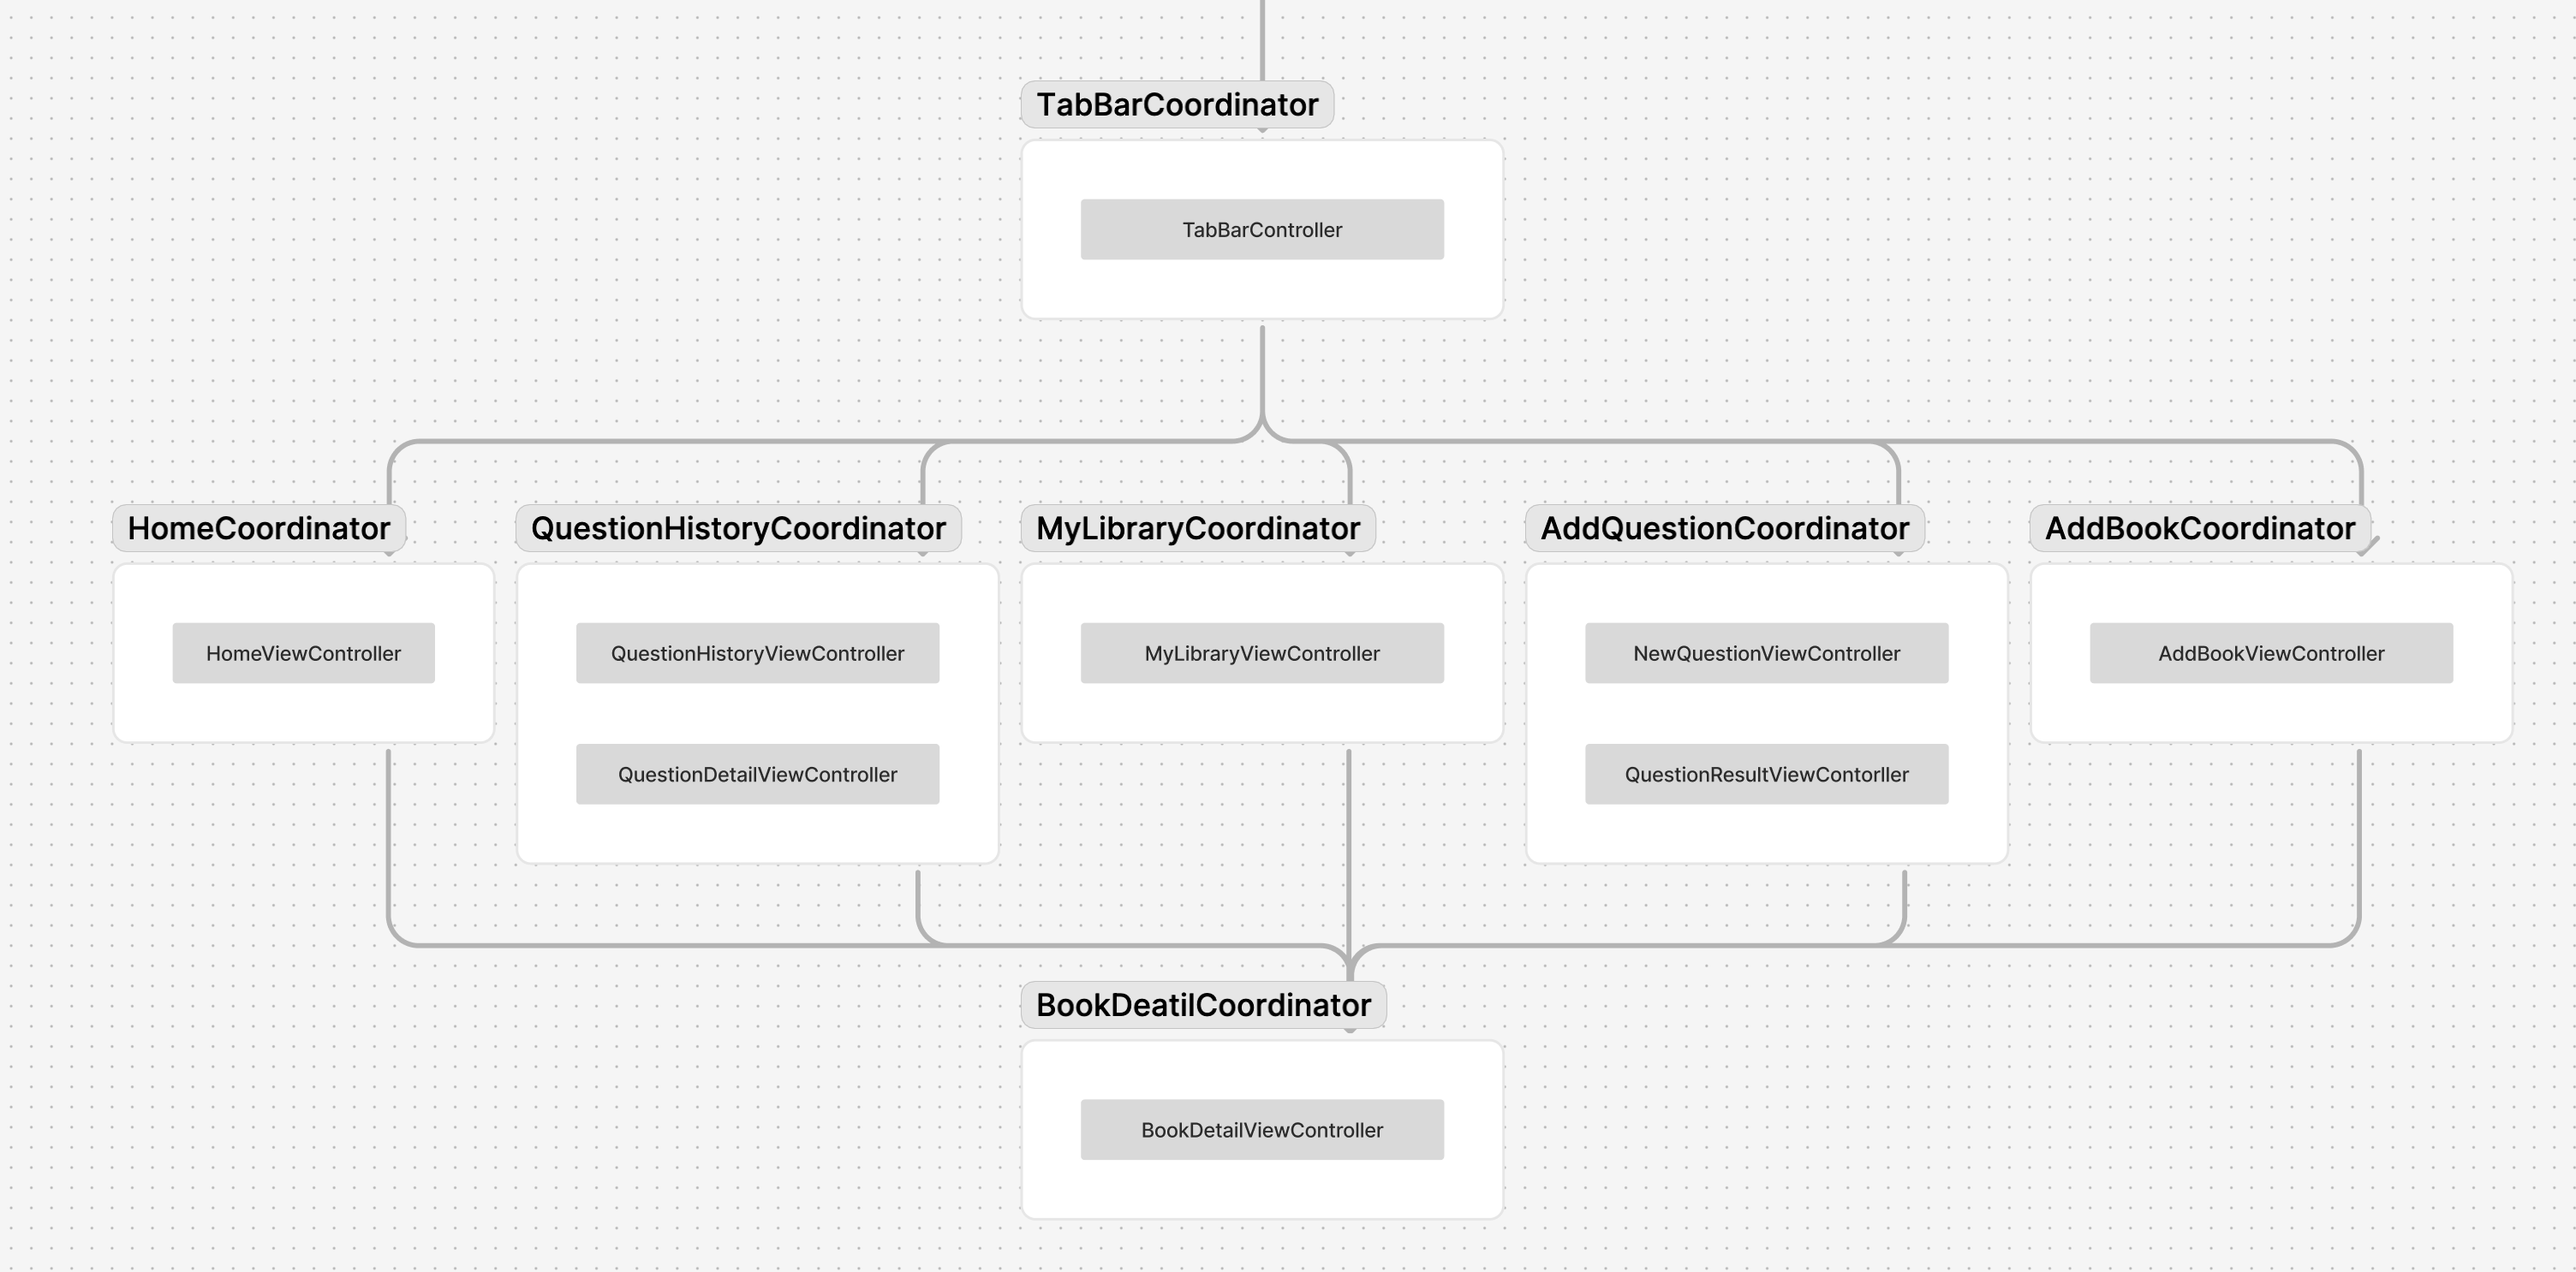
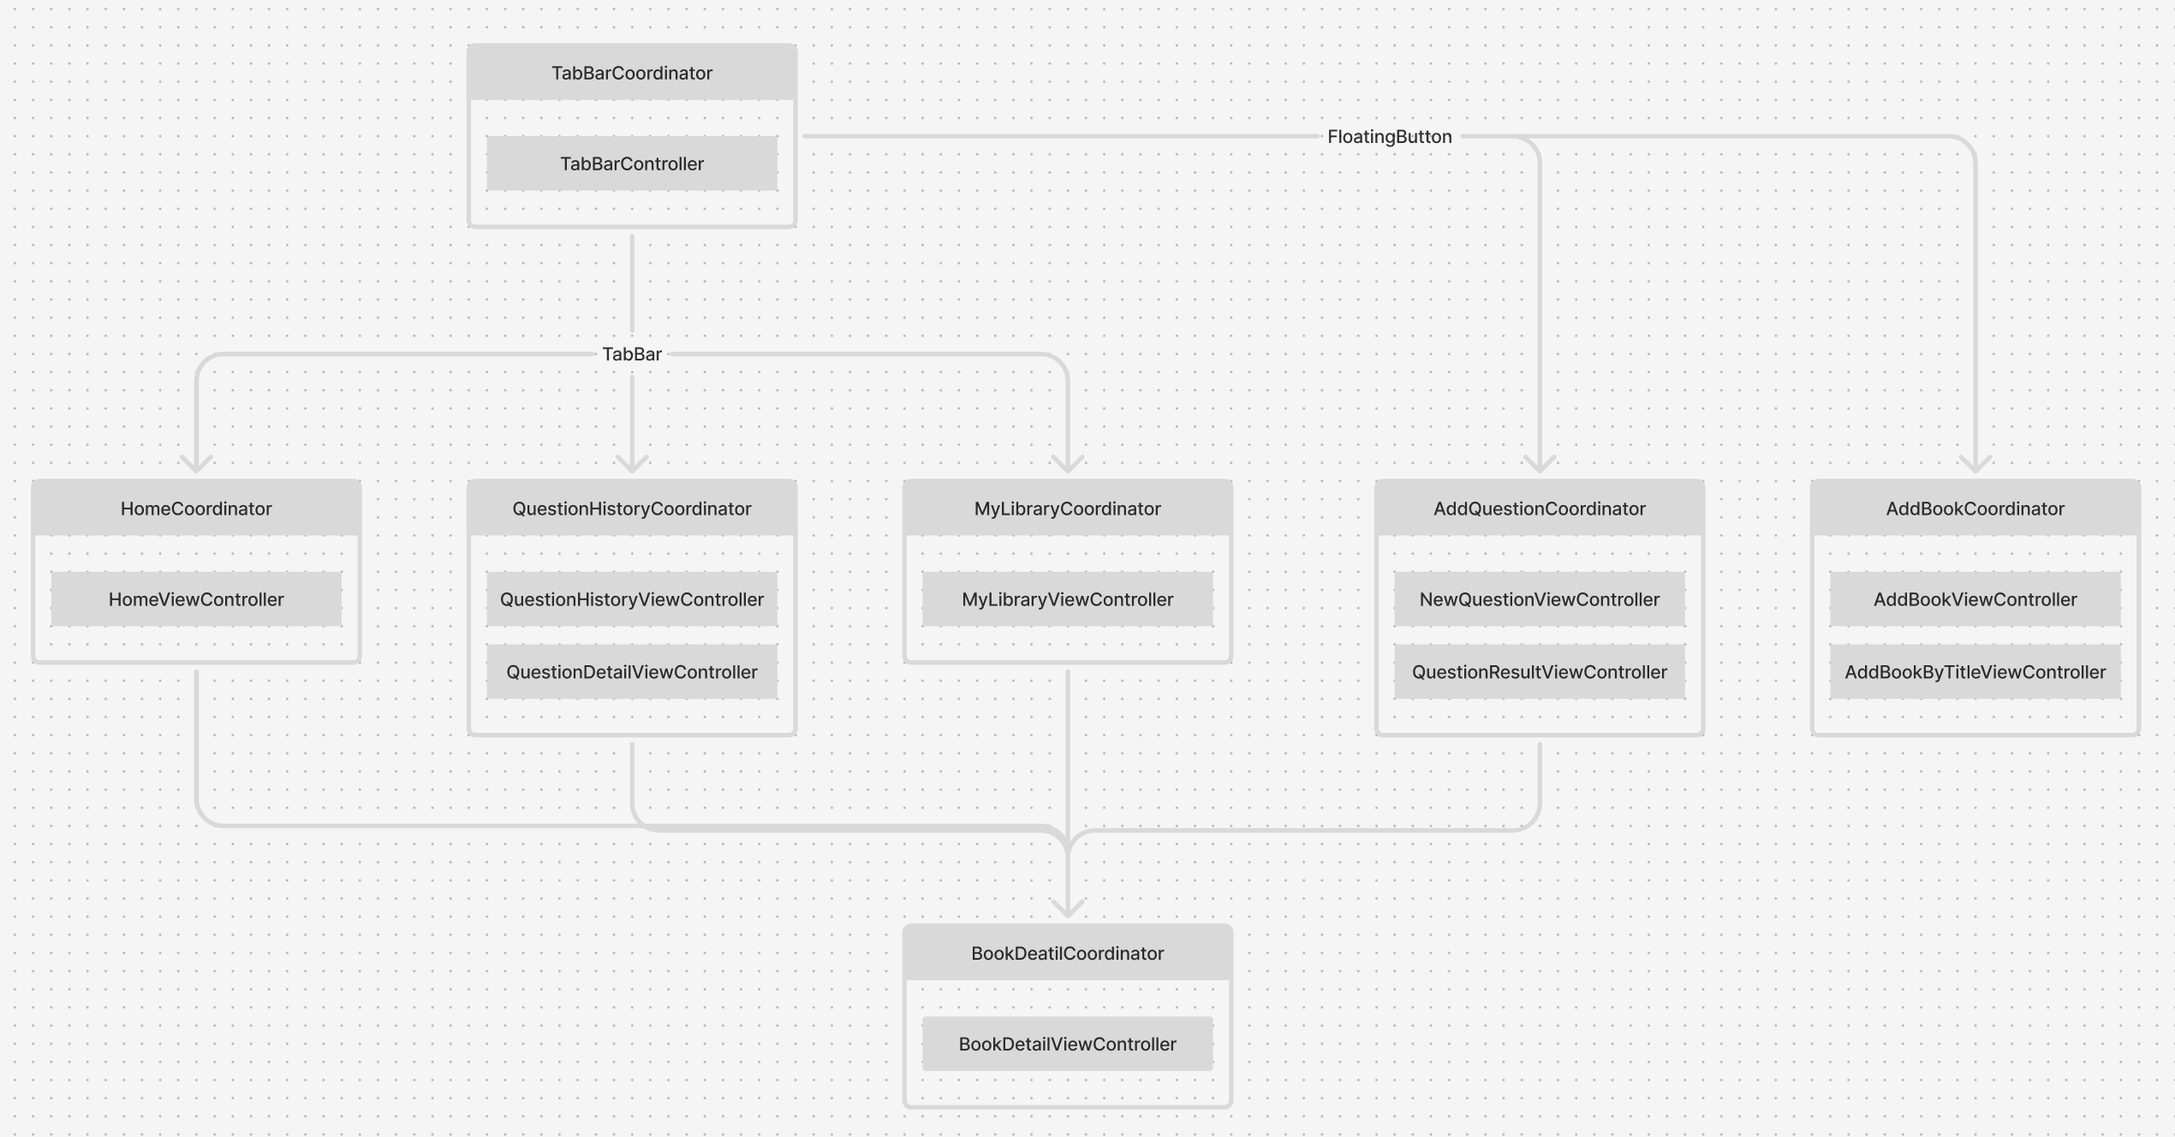
📝 Update documentation

diff --git a/_posts/study/ios/2025-01-24-iOS_Coordinator02.md b/_posts/study/ios/2025-01-24-iOS_Coordinator02.md
@@ -9,17 +9,25 @@ tags: [ios]
 * toc
 {:toc}
 
-## TabBarCoordinator의 역할
-TabBarCoordinator는 Coordinator 프로토콜을 구현하며, 앱의 탭 네비게이션을 관리하는 핵심 역할을 합니다.
+## ✋ Introduce
+이번 글에서는 BookKitty 프로젝트에서 도입한 Coordinator 패턴 중 TabBarCoordinator를 어떻게 구현했는지 소개하고자 합니다.
 
-본 프로젝트는 3개의 Tab(Home, Question History, My Library)이 존재하며, 플로팅 버튼을 통한 두 개의 플로우(AddBook, AddQuestion)을 제공합니다.   
+BookKitty는 MVVM-C 아키텍처를 기반으로 개발된 앱으로, 화면 전환을 효과적으로 관리하기 위해 Coordinator 패턴을 도입했습니다. 특히, 앱의 핵심 구조 중 하나인 TabBarController 기반의 화면 전환을 다루기 위해 TabBarCoordinator를 구현했으며, 이를 통해 각 탭의 흐름을 독립적으로 관리할 수 있도록 설계했습니다.
+
+이 글에서는 TabBarCoordinator의 역할과 구현 방식, 그리고 BookKitty에서 어떻게 활용했는지 자세히 설명하겠습니다.
+
+## TabBar Flow 설계
+Book_Kitty 프로젝트는 3개의 Tab(Home, Q&A, Library)이 존재하며, 플로팅 버튼을 통한 두 개의 플로우(AddBook, AddQuestion)를 제공합니다.   
 
 <div style="text-align: center;">
   <img src="/assets/img/blog/ios/coordinator02.png" alt="Memory-structure image" loading="lazy" />
 </div>
 
 <br>
-위와같은 화면 전환을 제공하기 위해 TabBarCoordinator로 부터 5개의 ChildCoordinator가 필요하며, 각 코디네이터의 마지막 플로우에 공통적으로 제공하는 BookDetailController 화면 전환은 별도의 Coordinator로 분리하여 재사용성을 확보했습니다.
+
+사진과 같은 화면 전환을 제공하기 위해 Tab 전환에 따른 플로우 3개, FloatingButton에 따른 플로우 2개 총 5개의 독립적인 화면 전환을 Coordinator로 분리하고, TabBarCoordinator에서 각각의 Coordinator를 생성해서 자식 Coordinator로 관리하는 방식을 설계했습니다.
+
+또한, 여러 플로우에서 공통적으로 접근하는 화면(BookDetail)은 별도의 Coordinator에서 관리할 수 있도록 설계해서 재사용성을 확보했습니다.
 
 <div style="text-align: center;">
   <img src="/assets/img/blog/ios/coordinator01.png" alt="Memory-structure image" loading="lazy" />
